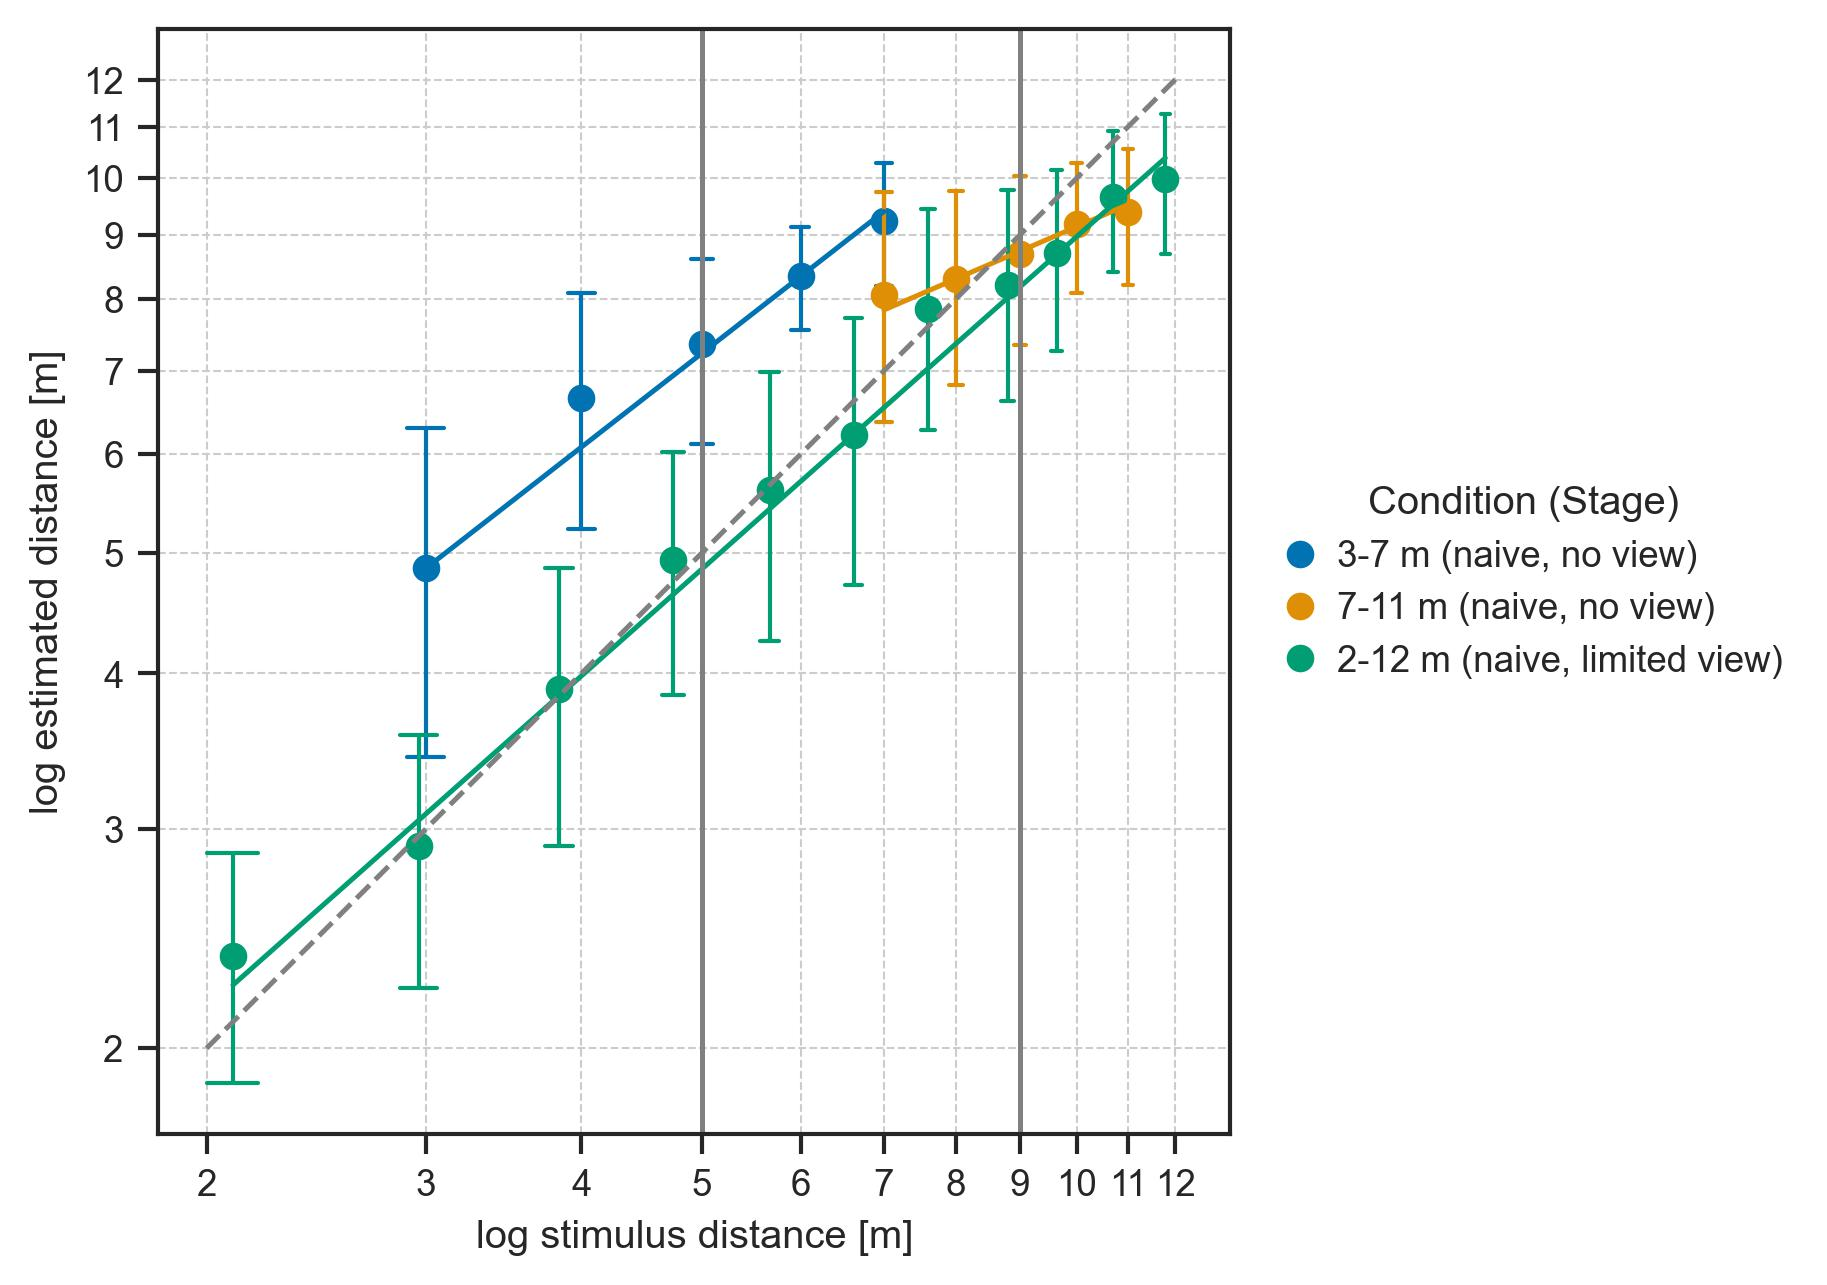
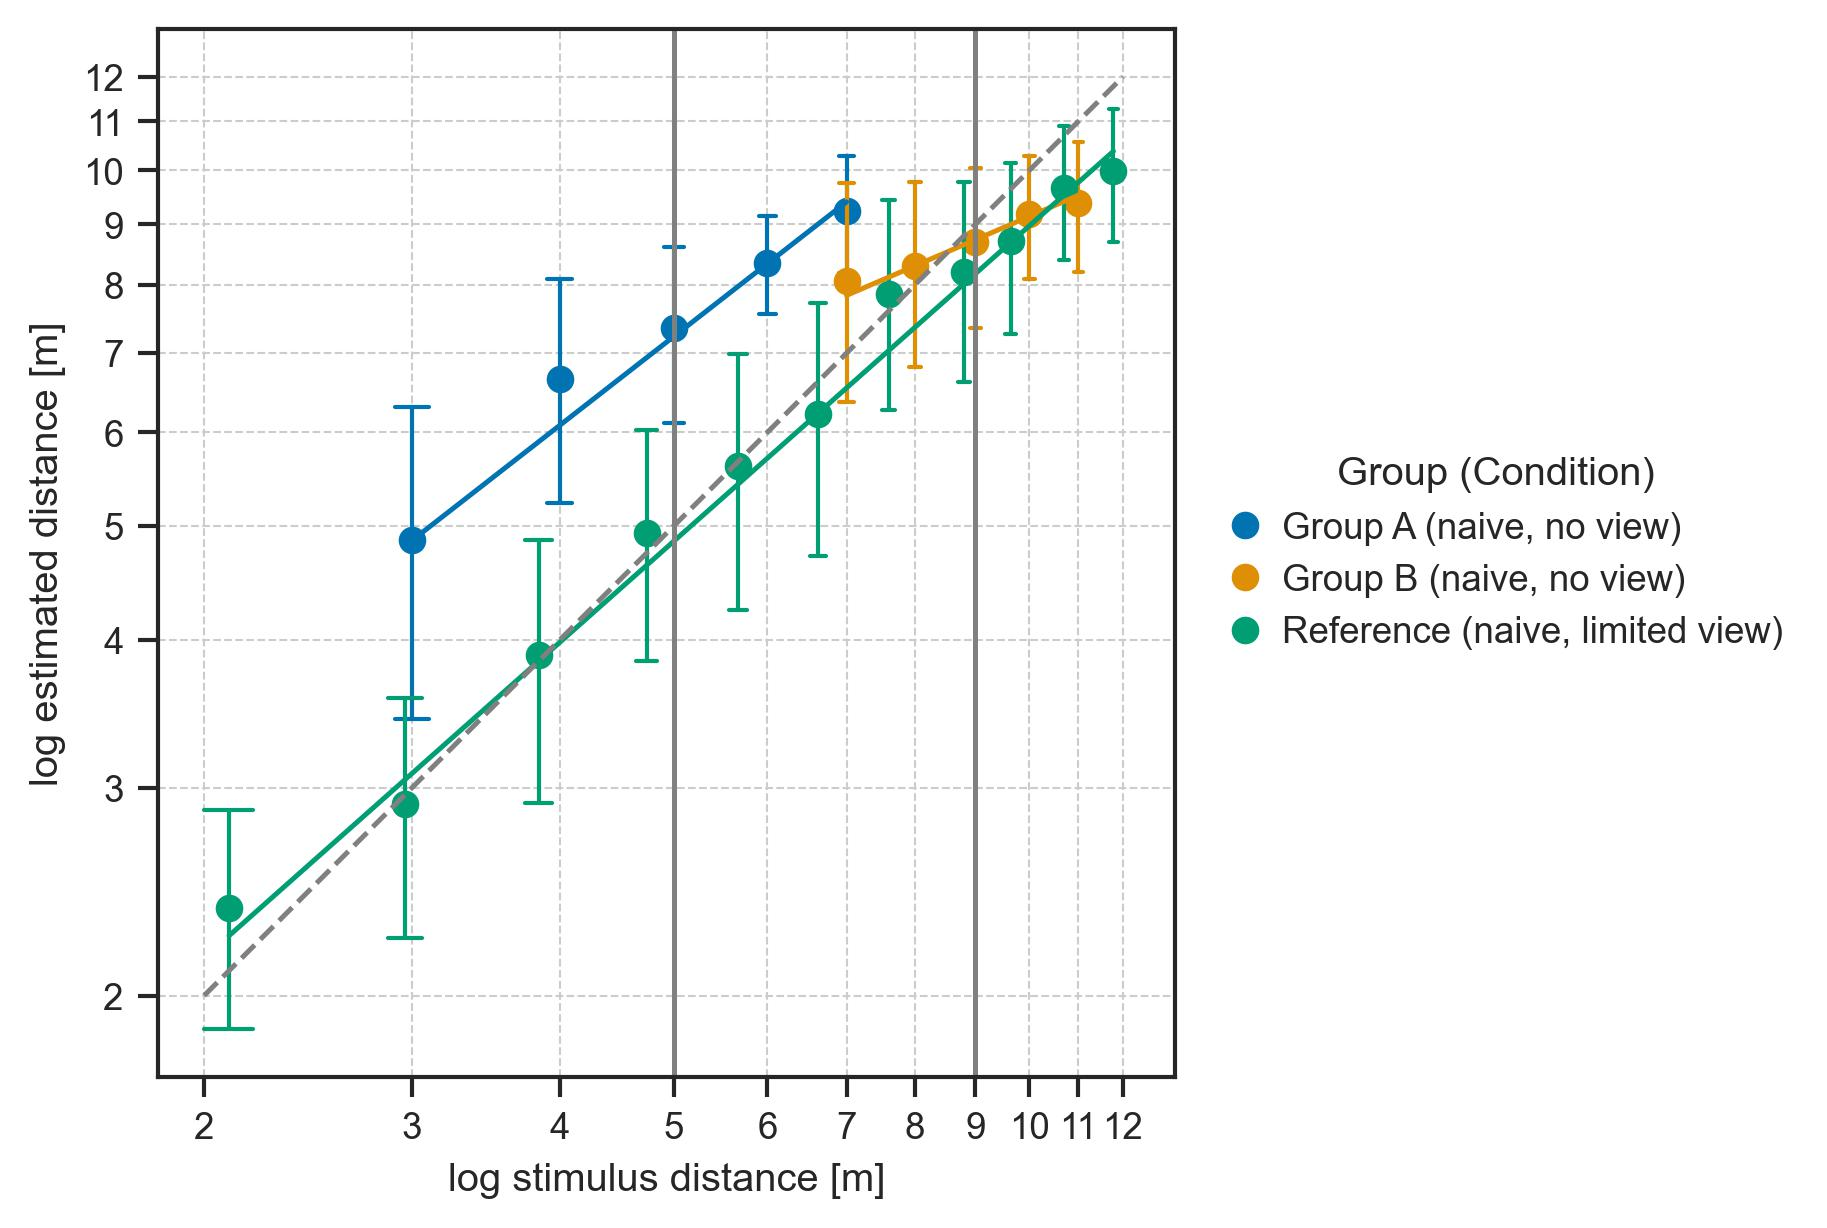
final code

diff --git a/run_analysis.py b/run_analysis.py
@@ -188,12 +188,12 @@ model_1_fit_df['cond_id'] = model_1_fit_df['cond_id'].astype('category')
 model_1_fit_df['cond_id'] = model_1_fit_df['cond_id'].cat.reorder_categories([3, 1, 2], ordered=True)
 
 # prepare plotting
-model_1_df["cond_id"] = model_1_df["cond_id"].map({1: "3-7 m (naive, no view)", 2:"7-11 m (naive, no view)", 3:"2-12 m (naive, limited view)"})
-model_1_fit_df["cond_id"] = model_1_fit_df["cond_id"].map({1: "3-7 m (naive, no view)", 2:"7-11 m (naive, no view)", 3:"2-12 m (naive, limited view)"})
+model_1_df["cond_id"] = model_1_df["cond_id"].map({1: "Group A (naive, no view)", 2:"Group B (naive, no view)", 3:"Reference (naive, limited view)"})
+model_1_fit_df["cond_id"] = model_1_fit_df["cond_id"].map({1: "Group A (naive, no view)", 2:"Group B (naive, no view)", 3:"Reference (naive, limited view)"})
 
 
 baseline = np.arange(2, 13, 1)
-hue_order = ("3-7 m (naive, no view)", "7-11 m (naive, no view)", "2-12 m (naive, limited view)")
+hue_order = ("Group A (naive, no view)", "Group B (naive, no view)", "Reference (naive, limited view)")
 ticks = np.arange(2, 13, 1).tolist()
 plt.figure(figsize=(6, 6))
 
@@ -214,7 +214,7 @@ plt.xlabel("log stimulus distance [m]")
 plt.ylabel("log estimated distance [m]")
 plt.xticks(ticks, labels=[str(tick) for tick in ticks])
 plt.yticks(ticks, labels=[str(tick) for tick in ticks])
-plt.legend(title="Condition (Stage)", loc="center left", bbox_to_anchor=(1, 0.5), alignment="center", handletextpad=0, frameon=False)
+plt.legend(title="Group (Condition)", loc="center left", bbox_to_anchor=(1, 0.5), alignment="center", handletextpad=0, frameon=False)
 plt.grid(True, which="both", linestyle="--", linewidth=0.5)
 plt.axis("square")
 plt.tight_layout()
@@ -367,7 +367,7 @@ for ax, cond_id in zip(axes, cond_ids):
     handles, labels = ax.get_legend_handles_labels()
     ax.get_legend().remove()
     
-fig.legend(handles, labels, title="Stage", loc="center left", bbox_to_anchor=(0.98, 0.5), handletextpad=0, frameon=False)
+fig.legend(handles, labels, title="Test", loc="center left", bbox_to_anchor=(0.98, 0.5), handletextpad=0, frameon=False)
 
 plt.tight_layout()
 save_fig("hyp-1_part-2")
@@ -453,7 +453,7 @@ df_1 = analysis.get_means_df(df=filtered_df, value_to_mean=y, mean_by=x) # calcu
 
 df_1["condition"] = None
 df_1.loc[(df_1["block_id"] == 6) & (df_1["cond_id"] == 1), "condition"] = "trained"
-df_1.loc[(df_1["block_id"] == 6) & (df_1["cond_id"] == 2), "condition"] = "generalised"
+df_1.loc[(df_1["block_id"] == 6) & (df_1["cond_id"] == 2), "condition"] = "novel"
 df_1["subset"] = "2-6 m"
 
 # second half
@@ -470,7 +470,7 @@ df_2 = analysis.get_means_df(df=filtered_df, value_to_mean=y, mean_by=x) # calcu
 # group by condition
 df_2["condition"] = None
 df_2.loc[(df_2["block_id"] == 6) & (df_2["cond_id"] == 2), "condition"] = "trained"
-df_2.loc[(df_2["block_id"] == 6) & (df_2["cond_id"] == 1), "condition"] = "generalised"
+df_2.loc[(df_2["block_id"] == 6) & (df_2["cond_id"] == 1), "condition"] = "novel"
 df_2["subset"] = "8-12 m"
 
 # combine both df's
@@ -479,7 +479,7 @@ y = f"mean_{y}"
 
 # sort reference group for modelling
 filtered_df['condition'] = filtered_df['condition'].astype('category')
-filtered_df['condition'] = filtered_df['condition'].cat.reorder_categories(["trained", "generalised"], ordered=True)
+filtered_df['condition'] = filtered_df['condition'].cat.reorder_categories(["trained", "novel"], ordered=True)
 
 # remove some data
 # filtered_df = filtered_df[filtered_df["condition"] != "naive"]
@@ -540,7 +540,7 @@ for subset in model_3_df["subset"].unique():
     slope_2 = slope_1 + help_model.params[3]
     
     coefficients = {"trained": {"k": intercept_1, "a": slope_1},
-                    "generalised": {"k": intercept_2, "a": slope_2}}    
+                    "novel": {"k": intercept_2, "a": slope_2}}    
     
     # calculate fitting line
     for condition, params in coefficients.items():
@@ -607,7 +607,7 @@ for ax, subset in zip(axes, subsets):
     handles, labels = ax.get_legend_handles_labels()
     ax.get_legend().remove()
     
-fig.legend(handles, labels, title="Condition", loc="center left", bbox_to_anchor=(0.98, 0.5), handletextpad=0, frameon=False)
+fig.legend(handles, labels, title="Stimulus exposure", loc="center left", bbox_to_anchor=(0.98, 0.5), handletextpad=0, frameon=False, alignment="left")
     
 plt.tight_layout()
 save_fig("hyp-2_part-1")
@@ -721,7 +721,7 @@ filtered_df = filtered_df[filtered_df["block_id"].isin([2, 6])]
 
 means_df = analysis.get_means_df(df=filtered_df, value_to_mean="absolute_error", mean_by="block_id")
 
-cond_to_compare = [2, 3]
+cond_to_compare = [1, 3]
 group_1_array = means_df[(means_df["block_id"] == 2) & (means_df["cond_id"] == cond_to_compare[0])]["mean_absolute_error"].to_numpy()
 group_2_array = means_df[(means_df["block_id"] == 2) & (means_df["cond_id"] == cond_to_compare[1])]["mean_absolute_error"].to_numpy()
 
